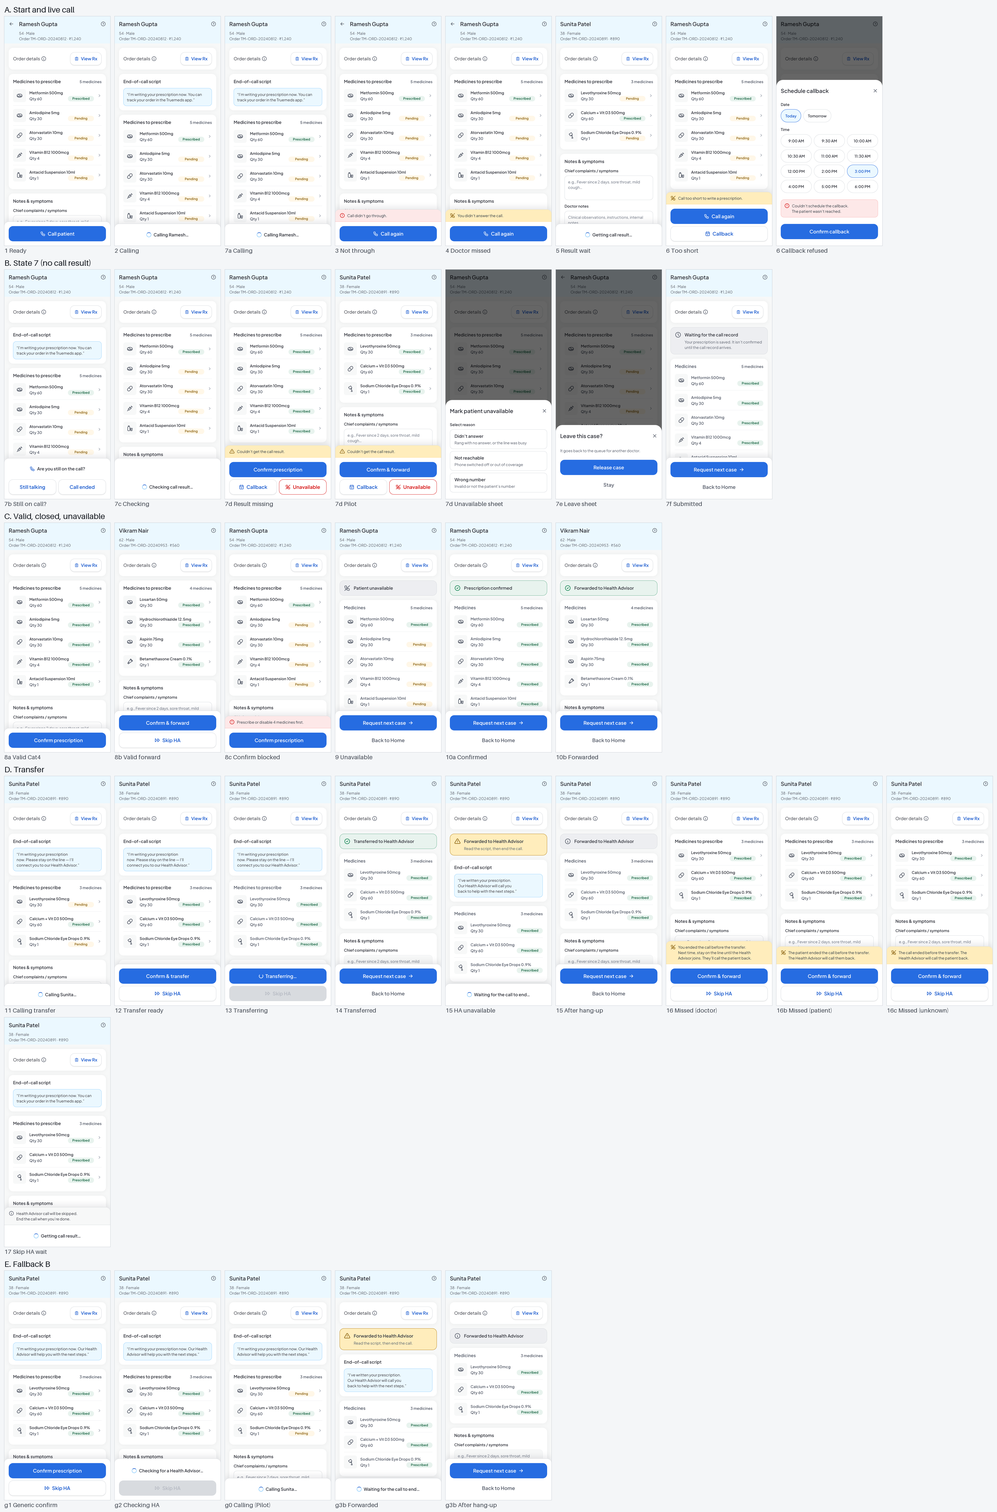
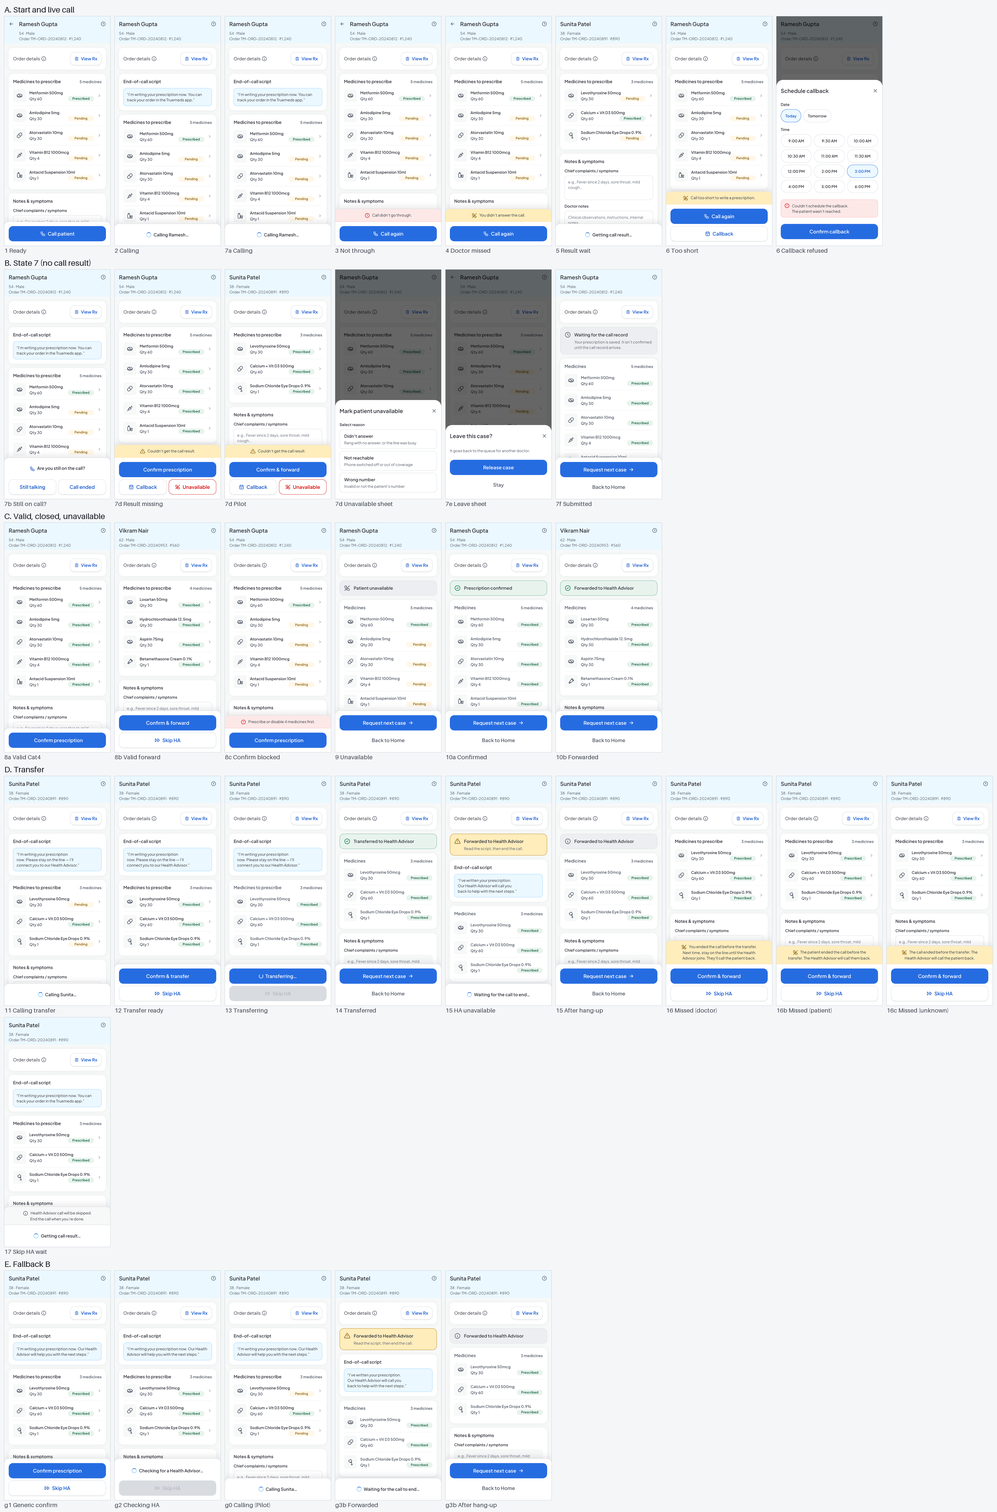
Doctor portal: D-91 — 7c shows the same screen as 5; s7c-checking retired, call.checkingResult retired; state map 148; calling-flow C7c
Claude-Session: https://claude.ai/code/session_0184B2yP3hzu7xZN3ZKbVtJC

diff --git a/projects/truemeds-doctor-portal-prototype/ui-screens/case/case.html b/projects/truemeds-doctor-portal-prototype/ui-screens/case/case.html
@@ -1231,7 +1231,7 @@ document.addEventListener('DOMContentLoaded', syncCaseActionBar);
     // S7. No call result (2026-10-24)
     's7a-calling':             () => { switchScenario(CAT4); initiateCall(); return later(() => { setBar(statusLine('Calling ' + first() + '…')); showScript(); }, 250); },   // K1: no Callback on a live call
     's7b-still-on-call':       () => { switchScenario(CAT4); initiateCall(); return later(() => { setBar(...ask()); showScript(); }, 250); },
-    's7c-checking':            () => { switchScenario(CAT4); initiateCall(); return later(() => { const q = ask(); q[0].style.visibility = 'hidden'; setBar(q[0], statusRow(MSG('call.checkingResult'))); $('pre-call-brief').style.display = 'none'; }, 250); },   // B-02: the question keeps its height (hidden); the status line takes the buttons' row
+    // 's7c-checking' retired (D-91): 7c uses the same screen as 5 (t05-result-wait).
     's7d-result-missing':      () => { switchScenario(CAT4); initiateCall(); allRx(); return later(() => s7dBar(), 250); },
     's7d-result-missing-pilot': () => { switchScenario(VALUE); initiateCall(); allRx(); return later(() => s7dBar('Confirm & forward'), 250); },   // K6 (CW-D2): Pilot route: Confirm & forward · Callback + Unavailable; no Skip HA
     's7d-unavailable-sheet':   () => { switchScenario(CAT4); initiateCall(); allRx(); return later(() => { s7dBar(); openSheet('sheet-mark-unavailable'); }, 250); },

diff --git a/projects/truemeds-doctor-portal-prototype/calling-flow/data.js b/projects/truemeds-doctor-portal-prototype/calling-flow/data.js
@@ -133,10 +133,10 @@ window.FLOW = {
       dec: ["D-58 pt 20", "D-62", "D-77", "D-83 CW-D1"] },
 
     C7c: { pos: [3, 4], title: "7c Checking call result", sub: "straight here if hang-up\nwas reported", style: "n", types: "CKP",
-      stateId: "call.checking", pics: ["s7c-checking"],
+      stateId: "call.checking", pics: ["t05-result-wait"],
       how: "Doctor tapped Call ended on 7b — or the 3-min timeout when the partner already reported the hang-up.",
-      sees: "Busy status line.", copy: ["call.checkingResult"],
-      events: [["Result found", "normal result path (8a / 6 / 9)"], ["Nothing found", "7d Result not received"]], dec: ["D-83 CW-D1"] },
+      sees: "Same screen as 5: \"Getting call result…\" status line, normal bar height, no script, no buttons. The app asks the backend for the call record.", copy: ["call.resultWait"],
+      events: [["Result found", "normal result path (8a / 6 / 9)"], ["Nothing found", "7d Result not received"]], dec: ["D-83 CW-D1", "D-91"] },
 
     C7d: { pos: [4, 4], title: "7d Result not received", sub: "Confirm · Callback · Unavailable\n(Unavailable → 9)", style: "n", types: "CKP",
       stateId: "call.result-missing", pics: ["s7d-result-missing", "s7d-unavailable-sheet"],

diff --git a/projects/truemeds-doctor-portal-prototype/ui-screens/native/messages.ts b/projects/truemeds-doctor-portal-prototype/ui-screens/native/messages.ts
@@ -64,7 +64,6 @@ export const messages = {
   "call.connectingHa": "Transferring…",
   "call.forwardedTell": "“I’ve written your prescription. Our Health Advisor will call you back to help with the next steps.”",
   "call.stillOnCall": "Are you still on the call?",
-  "call.checkingResult": "Checking call result…",
   "call.submittedTitle": "Waiting for the call record",
   "call.submittedText": "Your prescription is saved. It isn’t confirmed until the call record arrives.",
   "call.scriptCat4": "“I’m writing your prescription now. You can track your order in the Truemeds app.”",

diff --git a/projects/truemeds-doctor-portal-prototype/ui-screens/feedback/messages.js b/projects/truemeds-doctor-portal-prototype/ui-screens/feedback/messages.js
@@ -65,7 +65,6 @@
   "call.connectingHa": "Transferring…",
   "call.forwardedTell": "“I’ve written your prescription. Our Health Advisor will call you back to help with the next steps.”",
   "call.stillOnCall": "Are you still on the call?",
-  "call.checkingResult": "Checking call result…",
   "call.submittedTitle": "Waiting for the call record",
   "call.submittedText": "Your prescription is saved. It isn’t confirmed until the call record arrives.",
   "call.scriptCat4": "“I’m writing your prescription now. You can track your order in the Truemeds app.”",

diff --git a/projects/truemeds-doctor-portal-prototype/app/state-map.js b/projects/truemeds-doctor-portal-prototype/app/state-map.js
@@ -1336,19 +1336,6 @@ window.TM_STATE_MAP = {
    ]
   },
   {
-   "id": "s7c-checking",
-   "kind": "picture",
-   "picture": "case/s7c-checking",
-   "step": 5,
-   "lookAhead": [],
-   "version": "B",
-   "calling": [
-    "C7c"
-   ],
-   "behaviour": null,
-   "notes": []
-  },
-  {
    "id": "s7d-result-missing",
    "kind": "picture",
    "picture": "case/s7d-result-missing",
@@ -1447,7 +1434,8 @@ window.TM_STATE_MAP = {
    "lookAhead": [],
    "version": "B",
    "calling": [
-    "RES"
+    "RES",
+    "C7c"
    ],
    "behaviour": null,
    "notes": []

diff --git a/projects/truemeds-doctor-portal-prototype/ui-screens/_qa/build-storyboard.py b/projects/truemeds-doctor-portal-prototype/ui-screens/_qa/build-storyboard.py
@@ -7,7 +7,7 @@ def src(rid):
     return pathlib.Path('ui-screens/case') / f'{rid}_w390.png'   # close-out / status-line round: promoted pictures
 GROUPS = [
  ('A. Start and live call', [('t01-ready','1 Ready'),('t02-calling','2 Calling'),('s7a-calling','7a Calling'),('t03-not-through','3 Not through'),('t04-doctor-missed','4 Doctor missed'),('t05-result-wait','5 Result wait'),('t06-ended-early','6 Too short'),('c-callback-refused','6 Callback refused')]),
- ('B. State 7 (no call result)', [('s7b-still-on-call','7b Still on call?'),('s7c-checking','7c Checking'),('s7d-result-missing','7d Result missing'),('s7d-result-missing-pilot','7d Pilot'), ('s7d-unavailable-sheet','7d Unavailable sheet'),('s7e-leave-sheet','7e Leave sheet'),('s7f-submitted','7f Submitted')]),
+ ('B. State 7 (no call result)', [('s7b-still-on-call','7b Still on call?'),('s7d-result-missing','7d Result missing'),('s7d-result-missing-pilot','7d Pilot'), ('s7d-unavailable-sheet','7d Unavailable sheet'),('s7e-leave-sheet','7e Leave sheet'),('s7f-submitted','7f Submitted')]),
  ('C. Valid, closed, unavailable', [('t08a-valid-cat4','8a Valid Cat4'),('t08b-valid-forward','8b Valid forward'),('t08c-confirm-blocked','8c Confirm blocked'),('t09-patient-unavailable','9 Unavailable'),('t10a-confirmed','10a Confirmed'),('t10b-forwarded','10b Forwarded')]),
  ('D. Transfer', [('t11-calling-transfer','11 Calling transfer'),('t12-transfer-ready','12 Transfer ready'),('t13-connecting-ha','13 Transferring'),('t14-transferred','14 Transferred'),('t15-ha-no-join','15 HA unavailable'),('t15-after-hangup','15 After hang-up'),('t16-transfer-missed','16 Missed (doctor)'),('t16b-transfer-missed-patient','16b Missed (patient)'),('t16c-transfer-missed-unknown','16c Missed (unknown)'),('t17-skip-ha-wait','17 Skip HA wait')]),
  ('E. Fallback B', [('g1-generic-confirm','g1 Generic confirm'),('g2-checking-ha','g2 Checking HA'),('g0-calling-pilot','g0 Calling (Pilot)'),('g3b-forwarded','g3b Forwarded'),('g3b-after-hangup','g3b After hang-up')]),

diff --git a/projects/truemeds-doctor-portal-prototype/ui-screens/_qa/build-map.py b/projects/truemeds-doctor-portal-prototype/ui-screens/_qa/build-map.py
@@ -169,7 +169,6 @@ LABELS = {
     'case/c-callback-refused': '"Couldn\'t schedule the callback. The patient wasn\'t reached."',
     'case/e-callback-scheduled': 'Callback scheduled: card with the time',
     'case/s7b-still-on-call': 'Still on the call? (7b): Still talking / Call ended',
-    'case/s7c-checking': 'Checking call result (7c)',
     'case/s7d-result-missing': 'Result not received (7d, Cat4): Confirm / Callback / Unavailable',
     'case/s7d-unavailable-sheet': 'Mark patient unavailable: three reasons',
     'case/s7f-submitted': 'Waiting for the call record (7f)',
@@ -258,7 +257,7 @@ SECTIONS = {
         ('Cat4 / HA skipped: too short (6) and callback', ['case/t06-ended-early', 'case/c-callback',
                                                            'case/c-callback-error', 'case/c-callback-failed',
                                                            'case/c-callback-refused', 'case/e-callback-scheduled']),
-        ('Cat4 / HA skipped: no result (7)', ['case/s7b-still-on-call', 'case/s7c-checking',
+        ('Cat4 / HA skipped: no result (7)', ['case/s7b-still-on-call',
                                               'case/s7d-result-missing', 'case/s7d-unavailable-sheet',
                                               'case/s7f-submitted']),
     ],

diff --git a/projects/truemeds-doctor-portal-prototype/ui-screens/feedback/check-locked-specs.py b/projects/truemeds-doctor-portal-prototype/ui-screens/feedback/check-locked-specs.py
@@ -270,7 +270,7 @@ D_STATES = [
     'a-release-failed', 'a-releasing', 'a-rx-viewer', 'a-scrolled', 'a-top', 'c-callback',
     'c-callback-error', 'c-callback-failed', 'c-callback-refused', 'c-skip-ha', 'e-availability-ended', 'e-callback-scheduled', 'g0-calling-pilot', 'g1-generic-confirm',
     'g2-checking-ha', 'g3b-forwarded', 'g3b-after-hangup', 's-10-medicines', 's-medicine-disabled', 's-optional-empty', 's7a-calling',
-    's7b-still-on-call', 's7c-checking', 's7d-result-missing', 's7d-result-missing-pilot', 's7d-unavailable-sheet', 's7e-leave-sheet', 's7f-submitted',
+    's7b-still-on-call', 's7d-result-missing', 's7d-result-missing-pilot', 's7d-unavailable-sheet', 's7e-leave-sheet', 's7f-submitted',
     't01-ready', 't02-calling', 't03-not-through', 't04-doctor-missed', 't05-result-wait', 't06-ended-early',
     't08a-valid-cat4', 't08b-valid-forward', 't08c-confirm-blocked', 't09-patient-unavailable', 't10a-confirmed', 't10b-forwarded',
     't11-calling-transfer', 't12-transfer-ready', 't13-connecting-ha', 't14-transferred', 't15-ha-no-join', 't15-after-hangup',

diff --git a/projects/truemeds-doctor-portal-prototype/docs/proposals/2026-11-05-prototype-build-plan-v3.md b/projects/truemeds-doctor-portal-prototype/docs/proposals/2026-11-05-prototype-build-plan-v3.md
@@ -3,7 +3,7 @@
 **Status:** **APPROVED v3.2** (Apurva, 2026-11-06, D-90) together with rebuild checklist v3.2 (`docs/reviews/2026-11-05-rebuild-checklist-v3.md`). Changes from here on: bug (fix where it occurs) or next version (backlog).
 **Replaces:** `docs/proposals/2026-10-29-prototype-build-plan.md` (v2). **[v3]** = changed from v2 · **[R]** = changed after the independent review · **[R2]** = Apurva's answers after the review (D-89) (`docs/reviews/2026-11-05-plan-v3-review/`: Claude Code + Codex reports, merged in `MERGE.md`).
 **Scope:** how the *prototype* is built. Not the production HLD/LLD — that is Engineering's.
-**Inputs (frozen):** `ui-screens/` (149 states, re-frozen at D-85) · `ui-screens/app-logic.md` · `ui-screens/feedback/messages.json` · `docs/feedback-state-map.md` · `design-system/` (RULES §7–9) · decision log D-01 – D-88 · calling-flow page `calling-flow/` (`data.js`) as the calling reference **[v3]**.
+**Inputs (frozen):** `ui-screens/` (148 states, re-frozen at D-85; `s7c-checking` retired D-91) · `ui-screens/app-logic.md` · `ui-screens/feedback/messages.json` · `docs/feedback-state-map.md` · `design-system/` (RULES §7–9) · decision log D-01 – D-88 · calling-flow page `calling-flow/` (`data.js`) as the calling reference **[v3]**.
 **Picture version:** `docs/reviews/2026-11-05-plan-v3-review/build-map/` — every step below as its real screens **[R]**.
 
 ---
@@ -85,12 +85,12 @@ Each step: build → automatic checks + G7 → self-audit against the pictures a
 
 | Step | Journey | Pictures (owner) | Done when |
 |---|---|---|---|
-| 0 | Shell + staleness fixes **[R]**: frame, navigation + phone back, state, storage, clock, settings, `MSG()`, mock server + call simulator, mock unlock, state map, review panel + phone drawer + play link (QR) **[R2]**, install, checks, preview site. **Before generating the state map:** fix the stale source lines found by the review (MERGE.md §4) | — | Layout check passes on `app/`; state map lists 149 pictures + behaviour-only states; drift check passes; deploy gate tested both ways |
+| 0 | Shell + staleness fixes **[R]**: frame, navigation + phone back, state, storage, clock, settings, `MSG()`, mock server + call simulator, mock unlock, state map, review panel + phone drawer + play link (QR) **[R2]**, install, checks, preview site. **Before generating the state map:** fix the stale source lines found by the review (MERGE.md §4) | — | Layout check passes on `app/`; state map lists 148 pictures + behaviour-only states; drift check passes; deploy gate tested both ways |
 | 1 | Sign-in, OTP, faster sign-in offer, returning unlock | `sign-in/*`, `otp/*`, `faster-signin-offer/*`, `returning-unlock/*` + behaviour-only offer states | Every state matches; "→ Home" checked against a stub until step 2 |
 | 2 | Home, availability, Profile, Log out, Help / bell placeholder | `home/*` (↗ `home_profile-case-open`: open case from step 3) | Every state matches |
 | 3 | Case page incl. empty case, leave sheet, release failed, Rx viewer and Rx failed | `case/a-*` (↗ `a-back-blocked`, `a-confirm-busy`, `a-confirm-failed` → step 5), `case/s-*` (↗ `s-medicine-disabled` → step 4), `s7e-leave-sheet`, `prescribe/d-rx-failed`, `rx.load-failed` | Every state matches |
 | 4 | Prescribe and Disable | `prescribe/d-*` except `d-rx-failed` | Every state matches; Prescribe checklist group passes |
-| 5 | Calling, Cat4 and Pilot HA skipped: 1 – 10a, 7b – 7f, 8c, callback, patient unavailable, Request next case → next case | `t01`–`t06`, `t08a`, `t08c`, `t09`, `t10a`, `s7a-calling`, `s7b-still-on-call`, `s7c-checking`, `s7d-result-missing`, `s7d-unavailable-sheet`, `s7f-submitted`, `c-callback`, `c-callback-error`, `c-callback-failed`, `c-callback-refused`, `e-callback-scheduled`, `e-availability-ended` | Every state matches · full demo run (sign-in → prescribe → call → confirmed → next case) · **phone demo → deploy on request** |
+| 5 | Calling, Cat4 and Pilot HA skipped: 1 – 10a, 7b – 7f, 8c, callback, patient unavailable, Request next case → next case | `t01`–`t06`, `t08a`, `t08c`, `t09`, `t10a`, `s7a-calling`, `s7b-still-on-call`, `s7d-result-missing`, `s7d-unavailable-sheet`, `s7f-submitted`, `c-callback`, `c-callback-error`, `c-callback-failed`, `c-callback-refused`, `e-callback-scheduled`, `e-availability-ended` | Every state matches · full demo run (sign-in → prescribe → call → confirmed → next case) · **phone demo → deploy on request** |
 | 6 | Pilot, Fallback B: B1 before / after the gate, B2, 13 → 14, 15 + after hang-up, B3 + after hang-up, 16 / 16b / 16c → 10b or Skip HA → 10a, Skip HA on B1 → 17, 7d Pilot | `g0-calling-pilot`, `g1-generic-confirm`, `g2-checking-ha`, `t13-connecting-ha`, `t14-transferred`, `t15-ha-no-join`, `t15-after-hangup`, `g3b-forwarded`, `g3b-after-hangup`, `t16-transfer-missed`, `t16b-…`, `t16c-…`, `t10b-forwarded`, `t17-skip-ha-wait`, `c-skip-ha`, `s7d-result-missing-pilot` | Every state matches; every Pilot calling-flow edge plays end to end · **phone check (Q-B)** |
 | 7 | Across journeys: availability ends mid-case, reopen into an open case (`case.reopened`), app backgrounded during a call, late record for an earlier case while on the next one, Log out / Profile during an open case | app-logic §3 – 4 | Every scenario runs end to end |
 | 8 | Final pass: copy parity with native, G7 over everything | all | Whole checklist passes → Apurva approves → frozen; old link retired after (redirect, D-79 P8) |

diff --git a/projects/truemeds-doctor-portal-prototype/ui-screens/app-logic.md b/projects/truemeds-doctor-portal-prototype/ui-screens/app-logic.md
@@ -137,7 +137,7 @@ Order on first use: Sign-in → OTP → (offer, once) → Home → Case. Returni
 | 5 | `call.result-wait` | Getting call result | Partner reported the hang-up (Pilot), result not in yet. Cat4 never reaches 5 (CW-C2) | "Getting call result…" status line only · no Callback (CW-C1) | `t05-result-wait` |
 | 6 | `call.ended-early` | Call too short | Result: total talk time on the case under the gate | Amber "Call too short…" · Call again · Callback (no Unavailable — D-58 point 23) | `t06-ended-early` |
 | 7b | `call.still-on-call` | Still on the call? | 3 min after the tap with no result (repeats every 3 min) | Grey "Are you still on the call?" · Still talking + Call ended · no header Back (D-81 F21) | `s7b-still-on-call` |
-| 7c | `call.checking` | Checking call result | Doctor tapped "Call ended" | "Checking call result…" busy | `s7c-checking` |
+| 7c | `call.checking` | Checking call result (logic step) | Doctor tapped "Call ended", or the 3-min timeout after a reported hang-up; the app asks the backend for the call record — found → result path, nothing found → 7d | **Same screen as 5** (D-91): "Getting call result…" status line (`call.resultWait`), normal bar height, no script, no buttons | `t05-result-wait` |
 | 7d | `call.result-missing` | Result not received | Backend check found nothing; the call has ended | Amber notice · Cat4: **Confirm prescription** · Callback + Unavailable · Pilot (`s7d-result-missing-pilot`): **Confirm & forward** · Callback + Unavailable · no Skip HA (CW-D2). Unavailable opens the reason sheet (D-75); **the chosen reason is saved with the case** for Ops monitoring (D-73) | `s7d-result-missing` / `s7d-result-missing-pilot` |
 | 7e | — | Leave this case? | Back in 1, 3, 4 only (D-80, D-83) | Approved sheet: Release case / Stay. Release returns to Home (CW-A5) | `s7e-leave-sheet` |
 | 7f | `call.submitted` | Waiting for the call record | Confirm in 7d (or Confirm & forward on the Pilot route) | Grey card "Waiting for the call record · Your prescription is saved. We'll confirm it once the record arrives." (D-68); On the Cat4 route it becomes "Prescription confirmed" (10a) when the record arrives; on the Pilot route (Confirm & forward on 7d) it becomes **10b Forwarded to Health Advisor** (D-89, Q-A). **Under the gate, the patient never answered, or no record after a wait time (setting)** → not confirmed, back through hold and retry; no Ops review queue (CW-D3, CW-D4) · Request next case · Back to Home | `s7f-submitted` |
@@ -332,7 +332,7 @@ Not yet approved; Apurva reviews the before/after sheets. Standing decisions (D-
 
 **Gaps and cards.** Cards that stack are 16 apart on the case page, Prescribe and Profile (B-05, A-13, B-04). Notices and their controls: 8 (A-14).
 
-**Busy states (B-01, B-02, B-03).** Busy bars keep their height and the button's place: Transferring… keeps the Skip HA row, greyed and disabled, with no Callback (D-83 K13); Confirming… keeps its row. The status line takes the buttons' row in the call-ended check (7c) and the confirm fallback (B2). The end-of-call script card has 16 padding below in every state.
+**Busy states (B-01, B-02, B-03).** Busy bars keep their height and the button's place: Transferring… keeps the Skip HA row, greyed and disabled, with no Callback (D-83 K13); Confirming… keeps its row. The status line takes the buttons' row in the confirm fallback (B2). 7c shows the same screen as 5 at normal bar height — no empty tray (D-91, replaces B-02 for 7c). The end-of-call script card has 16 padding below in every state.
 
 **Back and calling (unchanged).** Back is hidden from the Call tap on, as in D-81 F21; the leave sheet, Releasing… and Release failed sit over Ready (F22).
 

diff --git a/projects/truemeds-doctor-portal-prototype/CLAUDE.md b/projects/truemeds-doctor-portal-prototype/CLAUDE.md
@@ -44,7 +44,7 @@ Before any auth/Home UI or render work, read `docs/feedback-rules.md` and `docs/
 **Layout v2 — D-42 to D-45.** Read `design-system/RULES.md` §8 (type scale, spacing, button placement, header types) before any screen work. Logo only on home-base screens (sign-in, Home). OTP v2 and the faster sign-in offer screen are defined in D-44 and D-45.
 
 ## Current state (2026-11-03) — read first
-- **Screens and app logic are approved and frozen** (D-78, re-frozen D-82): `ui-screens/` (README is the index; **149 states** at 360 and 390) and `ui-screens/app-logic.md`, with **D-83** (calling walkthrough), **D-84** (copy rules + copy round), **D-85** (17 Skip HA on a live call), **D-86** (bar notice centred) and **D-87** (Fallback B is the one Pilot flow; A-only screens later) applied. Render only what is genuinely new; every round runs the regression gate G7 (`docs/renders/2026-11-01-fix-round/CHECKLIST.md`). Anything new is a bug (fix where it occurs) or a next-version idea (backlog §4b).
+- **Screens and app logic are approved and frozen** (D-78, re-frozen D-82): `ui-screens/` (README is the index; **148 states** (`s7c-checking` retired, D-91) at 360 and 390) and `ui-screens/app-logic.md`, with **D-83** (calling walkthrough), **D-84** (copy rules + copy round), **D-85** (17 Skip HA on a live call), **D-86** (bar notice centred) and **D-87** (Fallback B is the one Pilot flow; A-only screens later) applied. Render only what is genuinely new; every round runs the regression gate G7 (`docs/renders/2026-11-01-fix-round/CHECKLIST.md`). Anything new is a bug (fix where it occurs) or a next-version idea (backlog §4b).
 - **Start here:** `docs/context/session_handoff.md` (latest entry) and `docs/context/backlog.md` (§2l).
 - **Now: prototype build, step 0** — plan v3.2 and rebuild checklist v3.2 **approved** (D-90): `docs/proposals/2026-11-05-prototype-build-plan-v3.md`, `docs/reviews/2026-11-05-rebuild-checklist-v3.md`. Fallback B first; one owner per picture; phone testing via QR play link + drawer (D-89). Step 0 begins with the stale-line fixes in `docs/reviews/2026-11-05-plan-v3-review/MERGE.md` §4. Calling reference: `calling-flow/` (`data.js`). Preview site deploys only on request. Do not extend `index.html` / `app.js`.
 - **Checks:** `ui-screens/feedback/check-locked-specs.py`, `check-sources.mjs`, `docs/layout_check.py`, `brand/check_lockup.py` — all 0 failures over all 149 states. Rebuild review aids with `ui-screens/_qa/` (`build-review.py`, `build-contact-sheets.py`, `build-storyboard.py`).

diff --git a/projects/truemeds-doctor-portal-prototype/docs/context/session_handoff.md b/projects/truemeds-doctor-portal-prototype/docs/context/session_handoff.md
@@ -927,3 +927,7 @@ User identified missing HTML/native linkage. Inspected actual sign-in and OTP HT
 - **Done in that thread (all committed on the project branch):** calling-flow page (`calling-flow/`) with happy path per case type (filled blue = primary, white = secondary), step-through, scroll-to-move / pinch-or-⌘-scroll-to-zoom, opens at 100 %, zoom presets, jump-to-lane; D-89 Pilot 7d → 10b written on the 7f join box (no overlapping arrow); overview picture `docs/reviews/2026-11-03-calling-flow-site/calling-flow-blocks.png`; state map rebuilt (drift check PASS).
 - **Open, now with the build thread:** (1) **7c uses the same screen as 5** (Apurva, 2026-11-06) — record the decision and apply it (retire `s7c-checking`, `call.checkingResult` → `call.resultWait`, app-logic §5 row 7c + §13 B-02, state map, guards, `data.js` C7c); 7c stays its own logic step (backend record check, "nothing found" → 7d). (2) **Deploy** the calling-flow page with the next approved merge (`[deploy]` in that PR title); the live copy is the 3 Nov version. (3) Later ideas (backlog): mini-map, "Find a state" box.
 - **Rule for the page:** content only in `calling-flow/data.js`; after any change run `node calling-flow/check-coverage.mjs` and `node scripts/build-state-map.mjs && node scripts/check-state-map.mjs`.
+
+## 2026-11-06 (01:30) · Build thread owns calling-flow/; D-91 applied (7c = same screen as 5)
+- **Done:** D-91 recorded and applied: `s7c-checking` (390 + 360) moved to `docs/_superseded/ui-screens-2026-11-06-s7c/`; `call.checkingResult` retired (messages / metadata / native regenerated, visible-strings pruned); app-logic §5 row 7c + §13, feedback-state-map, README, case.html recipe, guards' list, state map (148 pictures), data.js C7c (`t05-result-wait`, `call.resultWait`, D-91); plan / checklist / CLAUDE counts → 148. Checks run here: calling-flow coverage PASS, state-map drift PASS, check-sources PASS, lockup OK. `check-locked-specs.py` and `layout_check.py` need the Mac browser → first item of step 1 (brief Part A0).
+- **Calling-flow page:** content only in `calling-flow/data.js`; after any change run `node calling-flow/check-coverage.mjs`, `node scripts/build-state-map.mjs`, `node scripts/check-state-map.mjs`. Deploy with the next approved merge (`[deploy]`); mini-map and "Find a state" in backlog.
